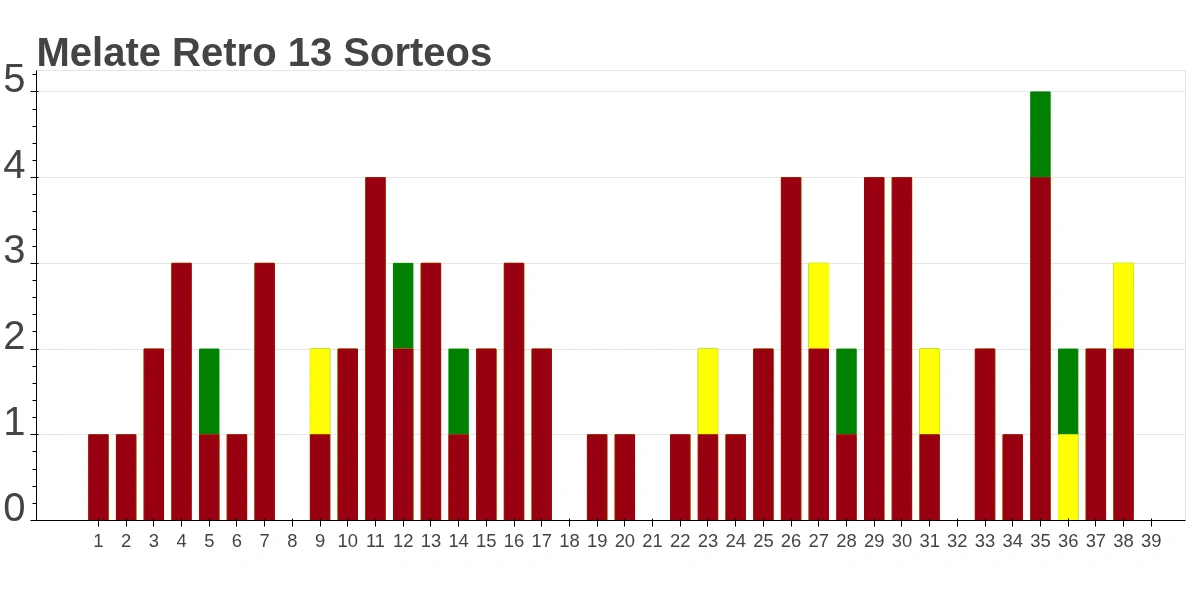
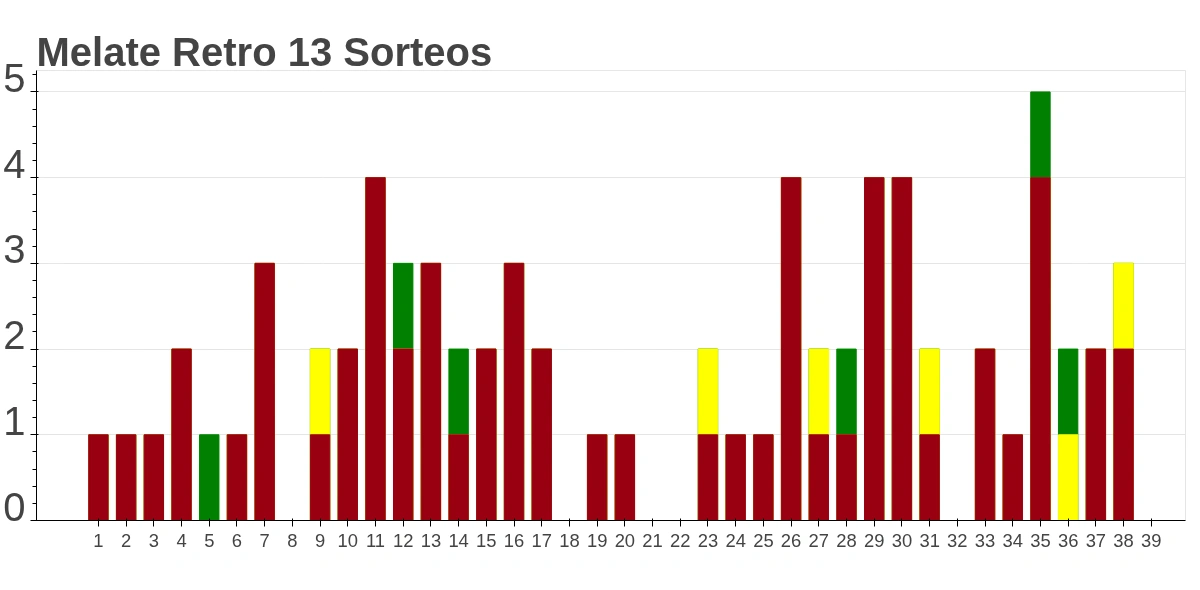
actualización

Changed region(s): [[0.0925, 0.4271, 0.185, 0.8847], [0.6167, 0.4271, 0.7092, 0.7322], [0.555, 0.7322, 0.5858, 0.8847]]

diff --git a/melate-retro.html b/melate-retro.html
@@ -4,7 +4,7 @@
 <head>
     <meta charset="utf-8">
     <meta name="viewport" content="width=device-width, initial-scale=1.0">
-    <meta http-equiv="last-modified" content="sáb, 12 jul 2025 22:51:14 CST">
+    <meta http-equiv="last-modified" content="dom, 13 jul 2025 13:05:14 CST">
     <link href="https://cdn.jsdelivr.net/npm/bootstrap@5.3.7/dist/css/bootstrap.min.css" rel="stylesheet"
         crossorigin="anonymous" defer>
 
@@ -56,7 +56,7 @@
           "headline": "Melate Retro Resultados de Hoy, Histórico y Analítica",
           "image": "https://www.pakin.lat/images/pakin-melate-retro-mobile.webp",
           "datePublished": "2017-01-01T11:11:00+06:00",
-          "dateModified": "2025-07-12T22:51:14-06:00",
+          "dateModified": "2025-07-13T13:05:14-06:00",
           "author": {
             "@type": "Person",
             "name": "Francisco Jaramillo",
@@ -3266,8 +3266,8 @@
         <p class="par">Veamos cuantas veces ha aparecido cada número <strong>sin importar la posición</strong>, en verde
             los números del último sorteo y en amarillo los números de dos sorteos anteriores.</p>
 
-        <img class="frecs" src="images/retro13.webp" fetchpriority="high" decoding="async"
-            alt="Pakin Melate Retro Frecuencias 13 Sorteos" width="1200" height="590" />
+        <img class="frecs" src="images/retro12.webp" fetchpriority="high" decoding="async"
+            alt="Pakin Melate Retro Frecuencias 12 Sorteos" width="1200" height="590" />
 
         <img class="frecs" src="images/retro16.webp" fetchpriority="high" decoding="async"
             alt="Pakin Melate Retro Frecuencias 16 Sorteos" width="1200" height="590" />
